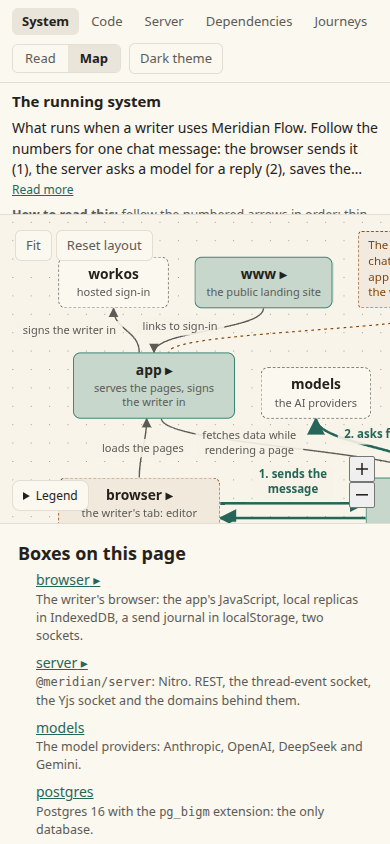
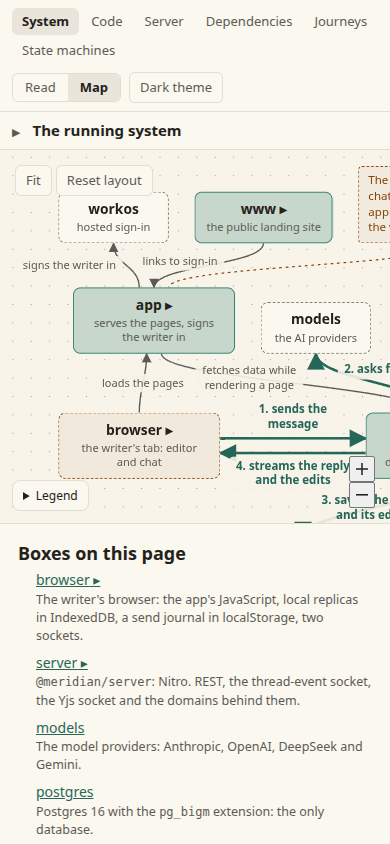
Architecture map: fix the layout problems from the final browser run
- Breadcrumb: each top-level page is walked before the next, so Server, App
  and www take System as their parent even though Server is also in the nav.
  Server shows `System › Server`, its children `System › Server ›
  conversation`. The nav highlights the nearest entry it has (Server, not
  System, on Server's pages).
- Phone width: the nav wraps instead of scrolling sideways. The collapsed
  intro shows its title with a disclosure marker; the how-to comes with
  "Read more", and only the expanded intro scrolls.
- Journeys: choosing a step scrolls the row only as far as it must
  (`inline: "nearest"`), so earlier cards stay put.
- Mermaid: every diagram opens no wider than its holder (never below 0.6,
  where text stops reading); state machines used to open at natural size
  and were cut at the holder's edge. No web fonts are loaded, so label
  measurement was not the cause.
- Box panel: Machines and Docs come before Arrows.

Screenshots replaced: phone, journey, state-machine, server-group-panel;
server-page added.

Changed region(s): [[0.0308, 0.0308, 1.0, 0.6469], [0.1231, 0.4929, 0.1538, 0.5545]]

diff --git a/tools/architecture-map/js/pages.js b/tools/architecture-map/js/pages.js
@@ -320,38 +320,38 @@ export function levelLinks(readme) {
 
 /**
  * Every level page, the one set the viewer and check.mjs both use: the README's top levels, then
- * the page each box's `Opens` names, all in `mapDir`. `read(path)` returns a repo file's text. A page opened from
- * two places keeps the first parent in breadth-first order, so System wins over Code.
+ * the page each box's `Opens` names, all in `mapDir`. `read(path)` returns a repo file's text. Each
+ * top level is walked breadth-first before the next, so a page opened from two places keeps the
+ * first parent found, System before Code, and a top level another one opens (Server, from System's
+ * box) takes that parent too: its trail is where the reader drills in from.
  * Returns { roots: [{ id, title }], levels: Map id → { id, title, path, page, trail } } where
- * `title` is the name the nav and breadcrumb show (a root's README label; a child's page title,
+ * `title` is the name the nav and breadcrumb show (a top level's README label; a child's page title,
  * which loses its parent's "Server: " prefix here, as the heading the viewer shows does) and `trail` is the ancestors, root first: [{ title, hash }].
  */
 export async function loadLevelPages(read, mapDir) {
   const roots = levelLinks(await read(`${mapDir}/README.md`));
+  const labels = new Map(roots.map((r) => [r.id, r.title]));
   const levels = new Map();
-  const queue = roots.map((r) => ({
-    id: r.id,
-    path: `${mapDir}/${r.href}`,
-    trail: [],
-    label: r.title,
-  }));
-  while (queue.length) {
-    const { id, path, trail, label } = queue.shift();
-    if (levels.has(id)) continue;
-    const page = parsePage(await read(path));
-    // The breadcrumb names the parent, so a child's shown title drops the "Server: " the .md heading keeps for GitHub readers.
-    if (!label) page.title = page.title.replace(`${trail.at(-1).page}: `, "");
-    const title = label ?? page.title;
-    levels.set(id, { id, title, path, page, trail });
-    for (const s of page.sections) {
-      const opens = linksOf(item(s, "Opens")?.value ?? "")[0];
-      const target = opens && resolveHref(path, opens.href).path;
-      if (!target?.startsWith(`${mapDir}/`) || !target.endsWith(".md")) continue;
-      queue.push({
-        id: target.slice(mapDir.length + 1, -3),
-        path: target,
-        trail: [...trail, { title, page: page.title, hash: `#${id}` }],
-      });
+  for (const r of roots) {
+    const queue = [{ id: r.id, path: `${mapDir}/${r.href}`, trail: [] }];
+    while (queue.length) {
+      const { id, path, trail } = queue.shift();
+      if (levels.has(id)) continue;
+      const page = parsePage(await read(path));
+      // The breadcrumb names the parent, so a child's shown title drops the "Server: " the .md heading keeps for GitHub readers.
+      if (trail.length) page.title = page.title.replace(`${trail.at(-1).page}: `, "");
+      const title = labels.get(id) ?? page.title;
+      levels.set(id, { id, title, path, page, trail });
+      for (const s of page.sections) {
+        const opens = linksOf(item(s, "Opens")?.value ?? "")[0];
+        const target = opens && resolveHref(path, opens.href).path;
+        if (!target?.startsWith(`${mapDir}/`) || !target.endsWith(".md")) continue;
+        queue.push({
+          id: target.slice(mapDir.length + 1, -3),
+          path: target,
+          trail: [...trail, { title, page: page.title, hash: `#${id}` }],
+        });
+      }
     }
   }
   return { roots: roots.map((r) => ({ id: r.id, title: r.title })), levels };

diff --git a/tools/architecture-map/js/markdown.js b/tools/architecture-map/js/markdown.js
@@ -146,17 +146,12 @@ function addZoom(holder) {
       button("Fit", "Fit to width", fit),
     ),
   );
-  // A flow fills the width (never smaller than 0.6, never above 1.6), a flowchart is squeezed to fit it,
-  // and any other diagram (a state machine) starts at natural size.
+  // Nothing opens wider than its holder: the scrollbar is a diagram-height away, so a reader sees a
+  // diagram cut at the edge. A flow also grows to fill the width (up to 1.6); below 0.6 text stops
+  // reading, so a diagram that wide starts there and scrolls.
   const wide = (holder.clientWidth - 26) / natural;
-  const kind = svg.getAttribute("aria-roledescription") ?? "";
-  set(
-    kind === "sequence"
-      ? Math.min(Math.max(wide, 0.6), 1.6)
-      : kind.startsWith("flowchart")
-        ? Math.min(wide, 1)
-        : 1,
-  );
+  const grow = svg.getAttribute("aria-roledescription") === "sequence" ? 1.6 : 1;
+  set(Math.max(Math.min(wide, grow), 0.6));
 }
 
 /** What the doc view can open: a repo path with no `..`, `.` or empty segment. The dev server decides which of them it serves. */

diff --git a/tools/architecture-map/styles/page.css b/tools/architecture-map/styles/page.css
@@ -212,6 +212,17 @@ button {
   font-size: 15px;
 }
 
+/* display: flex drops the summary's own marker; the collapsed intro on a phone needs one. */
+.intro summary::before {
+  color: var(--color-muted-foreground);
+  font-size: 11px;
+  content: "▶";
+}
+
+.intro[open] summary::before {
+  content: "▼";
+}
+
 .crumbs {
   display: flex;
   flex-wrap: wrap;
@@ -697,6 +708,8 @@ button {
   gap: 12px;
   padding: 4px 2px 14px;
   overflow-x: auto;
+  /* Room for the selected card's ring when it is scrolled to an edge. */
+  scroll-padding-inline: 2px;
   cursor: grab;
 }
 
@@ -918,8 +931,6 @@ button {
 
   .levels {
     flex: 1 1 100%;
-    flex-wrap: nowrap;
-    overflow-x: auto;
   }
 
   .workspace {
@@ -939,8 +950,17 @@ button {
   }
 
   .intro {
-    max-height: 30%;
+    max-height: none;
     padding: 8px 12px;
+  }
+
+  /* No room for both: the how-to comes with "Read more", and only the opened intro scrolls. */
+  .intro:has(.is-clamped) .how-to {
+    display: none;
+  }
+
+  .intro:not(:has(.is-clamped)) {
+    max-height: 50%;
   }
 
   .journeys {

diff --git a/tools/architecture-map/js/app.js b/tools/architecture-map/js/app.js
@@ -370,8 +370,11 @@ function setMode(next) {
 /** The nav's current entry, and the Read | Map toggle on level pages. */
 function syncChrome(r) {
   const level = r.kind === "level" ? levels.get(r.id) : null;
+  // A level in the nav is its own entry (Server, even opened from System); a child is its nearest such ancestor's.
   const section = level
-    ? (level.trail[0]?.hash.slice(1).split("/")[0] ?? r.id)
+    ? [r.id, ...level.trail.map((t) => t.hash.slice(1)).reverse()].find((id) =>
+        chrome.links.has(id),
+      )
     : r.kind === "journeys"
       ? "journeys"
       : r.section;

diff --git a/tools/architecture-map/js/journeys.js b/tools/architecture-map/js/journeys.js
@@ -132,7 +132,7 @@ export async function createJourneys(host, { nav }) {
     }
     content
       .querySelector(`[data-step="${id}/${n}"]`)
-      ?.scrollIntoView({ inline: "center", block: "nearest" });
+      ?.scrollIntoView({ inline: "nearest", block: "nearest" });
     const groups = JOURNEY_KEYS.flatMap((key) => {
       const links = linksOf(item(section, key)?.value ?? "");
       if (key === "Shot") return [];

diff --git a/tools/architecture-map/js/map.js b/tools/architecture-map/js/map.js
@@ -601,11 +601,11 @@ export function createMap(host, { page, path, nav }) {
             ),
           )
         : null,
+      links("Machines", value("Machines")),
+      links("Docs", value("Docs")),
       connections(id),
       links("See", value("See")),
       links("Opens", value("Opens")),
-      links("Machines", value("Machines")),
-      links("Docs", value("Docs")),
     ]);
   }
 
